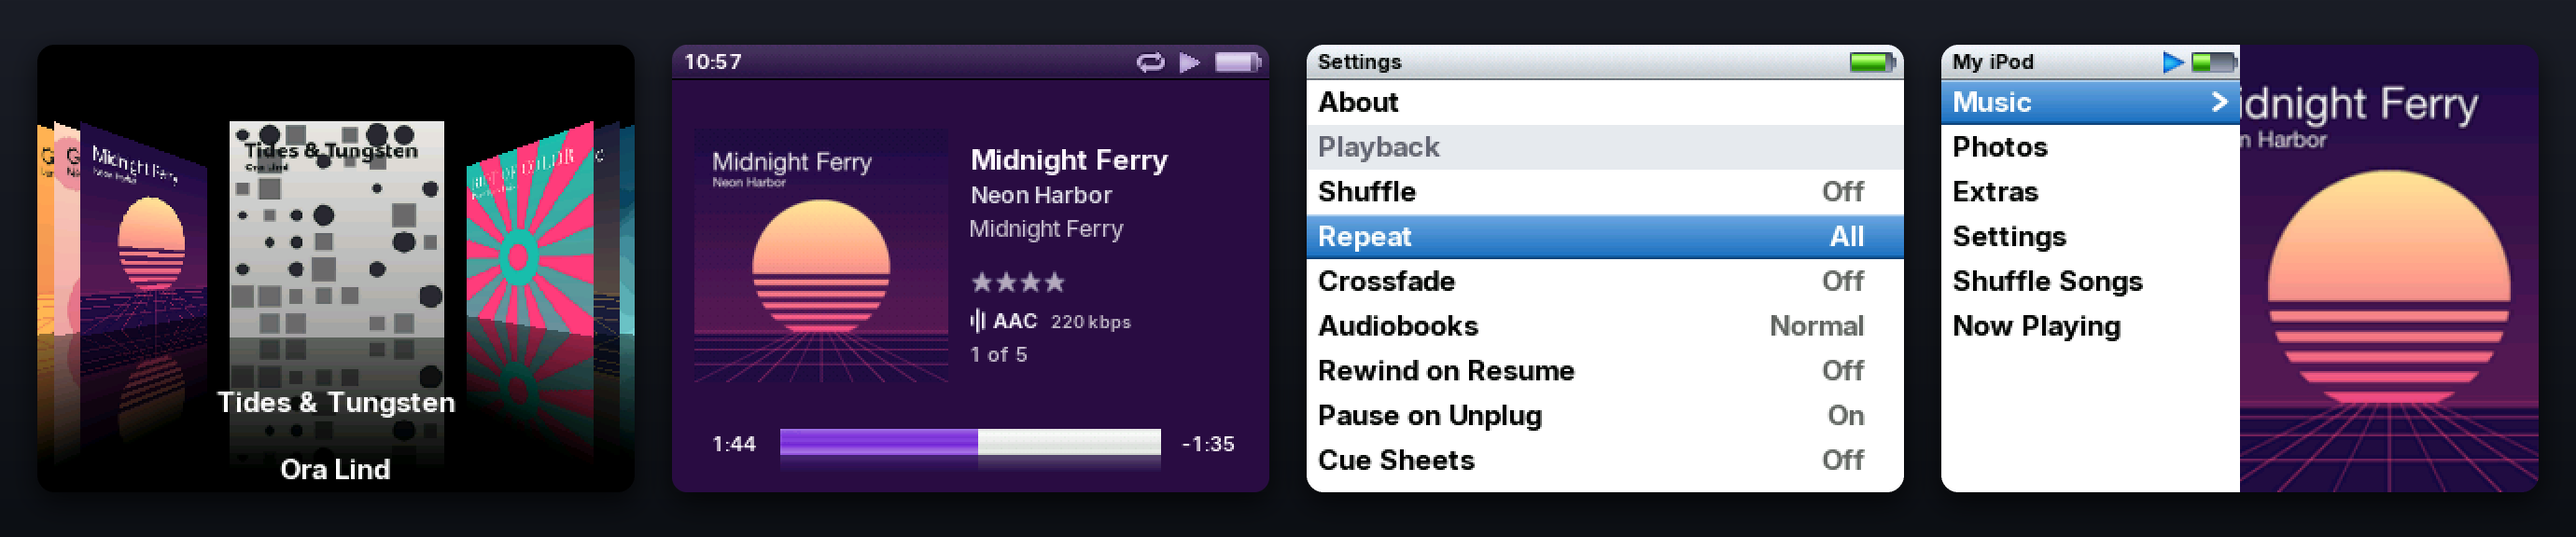
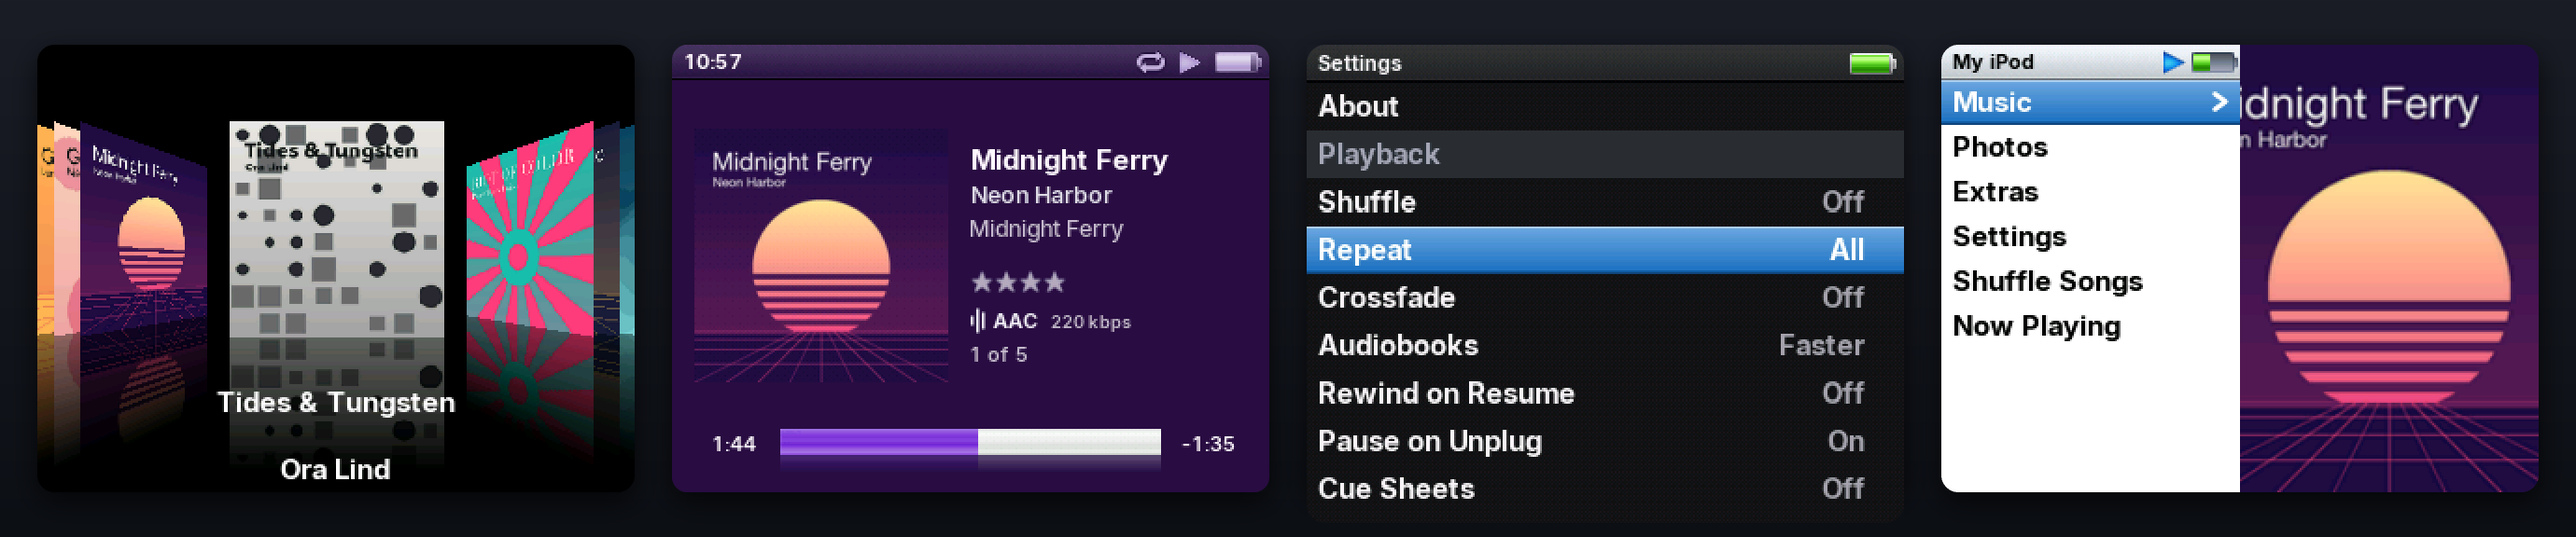
README: the dark theme, Night Mode, the EQ's new screen and the panels beside the menu

Changed region(s): [[0.4986, 0.0625, 0.7478, 0.9375]]

diff --git a/README.md b/README.md
@@ -2,7 +2,7 @@
 
 RockWheel is free, open-source firmware for the iPod Video, 5th and 5.5th generation, built on [Rockbox](https://www.rockbox.org). It keeps the engine that made Rockbox great, and adds the two things it never had: a place in Finder, and the manners of a real iPod.
 
-Your iPod syncs with Finder as it always did, and now has what it never got: Cover Flow with kinetic scrolling, lyrics that follow the song, a Now Playing screen that takes on the colours of the album, and room for a very large library without slowing down.
+Your iPod syncs with Finder/iTunes as it always did, and now has what it never got: Cover Flow with kinetic scrolling, lyrics that follow the song, a Now Playing screen that takes on the colours of the album, a dark theme with a Night Mode that keeps its own hours, and room for a very large library without slowing down.
 
 ![Cover Flow, Now Playing, Settings and the main menu](docs/screenshots/banner.png)
 
@@ -20,6 +20,8 @@ Your iPod syncs with Finder as it always did, and now has what it never got: Cov
 | Cover Flow | No | Plugin, with its own cache to build | **First item in Music, with kinetic scrolling** |
 | Time-synced lyrics | No | Plugin | **Built into Now Playing** |
 | Now Playing in the colours of the album | No | No | **Yes** |
+| Dark theme | No | Some themes | **Built in, and changes while the music plays** |
+| Night Mode, on a schedule if you like | No | No | **Yes** |
 | Videos | Yes | Converted files, or the stock firmware, one restart away | **The stock firmware, one restart away** |
 | Open source | No | Yes | **Yes, GPL** |
 
@@ -85,23 +87,41 @@ Now Playing can take on the colours of whatever you're listening to. Every album
 
 It's off until you want it. Hold Select in Now Playing and choose Colours, or find Cover Colours in Settings.
 
+## Dark theme and Night Mode
+
+The whole iPod can go dark: the menus, Now Playing, the dialogs, even the clock. It takes about half a second, and the music plays on.
+
+<img src="docs/screenshots/dark-now-playing.png" width="320" alt="Now Playing in the dark theme"> <img src="docs/screenshots/dark-home.png" width="320" alt="The main menu in the dark theme, with the playing album beside it">
+
+<img src="docs/screenshots/dark-settings.png" width="320" alt="Settings in the dark theme"> <img src="docs/screenshots/night-mode.png" width="320" alt="Night Mode and what it does when it's on">
+
+**The dark theme is one press away.** Hold Select in Now Playing, or find it in Settings. The colours from the album work on it too.
+
+**Night Mode gets the iPod ready for the end of the day.** Turn it on and it goes dark, quiets the wheel, dims the screen and lowers the volume limit. You choose which of these it does, how dim and how quiet.
+
+**It can keep its own hours.** Give it a start and an end, past midnight if you like, and it comes on and goes off by itself. If you change your mind in between, that holds until the next time on the schedule.
+
+**The morning is as you left it.** When it ends, everything goes back to how it was. If music is still playing when the schedule ends, the volume stays where it is, so nothing wakes you.
+
 ## It feels like an iPod
 
 <img src="docs/screenshots/home-playing.png" width="320" alt="Main menu with the playing album beside it"> <img src="docs/screenshots/home-settings.png" width="320" alt="Main menu with the iPod's name and free space">
 
-<img src="docs/screenshots/settings.png" width="320" alt="Settings in groups, with values on the right"> <img src="docs/screenshots/eq.png" width="320" alt="EQ presets">
+<img src="docs/screenshots/home-photos.png" width="320" alt="Main menu with a collage of your photos beside it"> <img src="docs/screenshots/photos.png" width="320" alt="Photo browser">
 
-<img src="docs/screenshots/menu.png" width="320" alt="The menu you get by holding Select in Now Playing"> <img src="docs/screenshots/photos.png" width="320" alt="Photo browser">
+<img src="docs/screenshots/settings.png" width="320" alt="Settings in groups, with values on the right"> <img src="docs/screenshots/menu.png" width="320" alt="The menu you get by holding Select in Now Playing">
 
-**The menus you remember:** Music, Photos, Extras, Settings, Shuffle Songs and Now Playing, with your iPod's name at the top.
+<img src="docs/screenshots/eq.png" width="320" alt="The EQ, with a row for each pair of headphones"> <img src="docs/screenshots/eq-model.png" width="320" alt="The presets for one pair of headphones">
+
+**The menus you remember:** Music, Photos, Extras, Settings, Shuffle Songs and Now Playing, with your iPod's name at the top. Beside them is the album playing, a collage of your photos, or your iPod and the room left on it.
 
 **Settings in one list,** neatly grouped, with every value in plain sight. Most change with a single press.
 
 **Shortcuts your thumb learns quickly.** Hold Play for Now Playing from almost anywhere, and hold Menu to go to the main menu. Press Menu after holding Play to go back to the list you started it from.
 
-**What you reach for while you listen.** Hold Select in Now Playing to open Cover Flow, go to the song's artist or album, or change shuffle, repeat, the EQ, the volume limit, Sound Check, brightness and colours. Press Menu in a list you opened from there, and you're back where you were.
+**What you reach for while you listen.** Hold Select in Now Playing to open Cover Flow, go to the song's artist or album, or change shuffle, repeat, the EQ, the volume limit, Sound Check, brightness, colours, the dark theme and Night Mode. Press Menu in a list you opened from there, and you're back where you were.
 
-**The EQ from iTunes.** All 22 presets, tuned exactly as they are in iTunes, plus presets made for the 7Hz Zero 2 earphones and the Koss KPH30i headphones. You hear a new preset the moment you pick it, and it doesn't make your music quieter. Presets for more headphones may come in the future.
+**The EQ from iTunes, and for your headphones.** All 22 presets, tuned exactly as they are in iTunes, are kept together, and each pair of headphones has a row of its own, so far the 7Hz Zero 2 earphones and the Koss KPH30i headphones. You hear a new preset the moment you pick it, and it doesn't make your music quieter. Presets for more headphones may come in the future.
 
 **Songs at an even level.** Turn on Sound Check, in Settings or by holding Select in Now Playing, and your library plays at about the same volume, using the levels Finder has already worked out.
 
@@ -131,6 +151,8 @@ All of these were measured on the test iPod. "Before" is Rockbox's behaviour or 
 | Library update after a sync | about 90 s for 200 new songs | **about 17 s for 200–300 new**, in a library of 6,810 |
 | Writing over USB | 3.2 MB/s in Apple's disk mode, 6.6 MB/s in Rockbox | **8.4–8.7 MB/s** |
 | Plugged in to mounted on the Mac | about 12 s | **about 9 s** |
+| Changing the theme while music plays | 8 s | **0.45–0.65 s** |
+| Parsing the skins, at every start | 282 ms | **54 ms** |
 
 How that was done:
 
@@ -138,10 +160,12 @@ How that was done:
 - **Decoding moved to the second core.** MP3 and AAC frames are decoded on the COP into a queue, so the main CPU is free for the UI.
 - **Faster codecs where it counted.** A new IMDCT path in libmad takes MP3 decoding from 7.8 to 6.7 ms a frame, and libfaad clears and copies less, taking AAC from 11.4 to 10.55 ms.
 - **The whole database in RAM,** paths included, with hash tables instead of repeated disk searches.
-- **Work done ahead of time.** Cover Flow's images, each album's colour and the playlist of all songs are prepared while the library updates, so nothing has to be built when you open them.
+- **Work done ahead of time.** Cover Flow's images, each album's colour, the collage of photos and the playlist of all songs are prepared while the library updates, so nothing has to be built when you open them.
 - **A new colour in about 65 ms,** drawing included. The memory for it is only taken when you choose Whole Screen or Fill.
 - **EQ presets keep their level.** The EQ cuts the signal digitally so that its boosts can't clip, and the analog volume rises by the same amount. Near the top of the volume, the peaks of loud music can reach the limit of the amplifier.
 - **Sound Check from Finder's own values,** looked up on disk as a track loads. It only ever lowers a track, since Finder's database doesn't say where its peaks are.
+- **A theme change that leaves the music alone.** A theme's pictures are packaged in the screen's own format and come in one DMA read rather than a row at a time, which took a backdrop from about a second to 14 ms with music playing. The fonts stay loaded, and the album art slots are held, so the audio buffer is never made again.
+- **An index on the skin tags,** which the parser asks for again and again as it scans ahead. They took 80% of its time.
 - **Journaled library updates.** Cut off at 10 different points in the simulator, an update recovered every time.
 - **The device description Finder asks for** is generated from the iPod's own flash the first time it's needed.
 - **Finder's database read once,** as a stream in aligned 64 KB blocks, because it doesn't fit in memory.

diff --git a/themes/README.md b/themes/README.md
@@ -1,7 +1,8 @@
 # iPod theme
 
 The theme for the iPod Video (320x240), kept here in the layout it is installed
-in (`<theme>/.rockbox/...`). The menus don't offer another one.
+in (`<theme>/.rockbox/...`). The menus don't offer another one. Its dark version,
+`iClassic-Square-Dark`, is made from it by `tools/make_dark_theme.py`.
 
 It's licensed under Creative Commons Attribution-Share Alike 3.0
 (http://creativecommons.org/licenses/by-sa/3.0/), and so are the changes made
